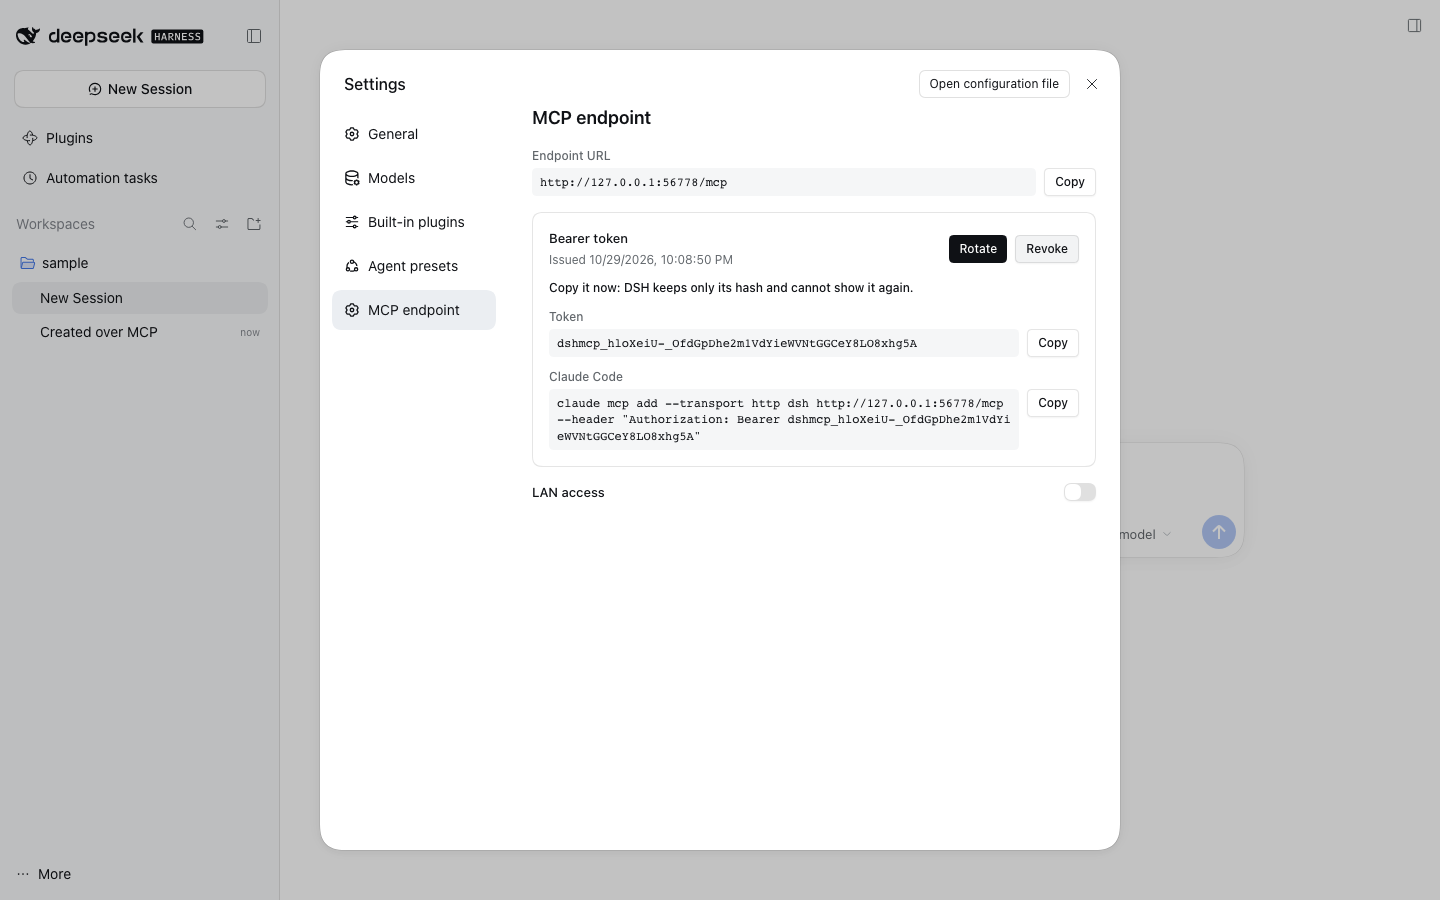
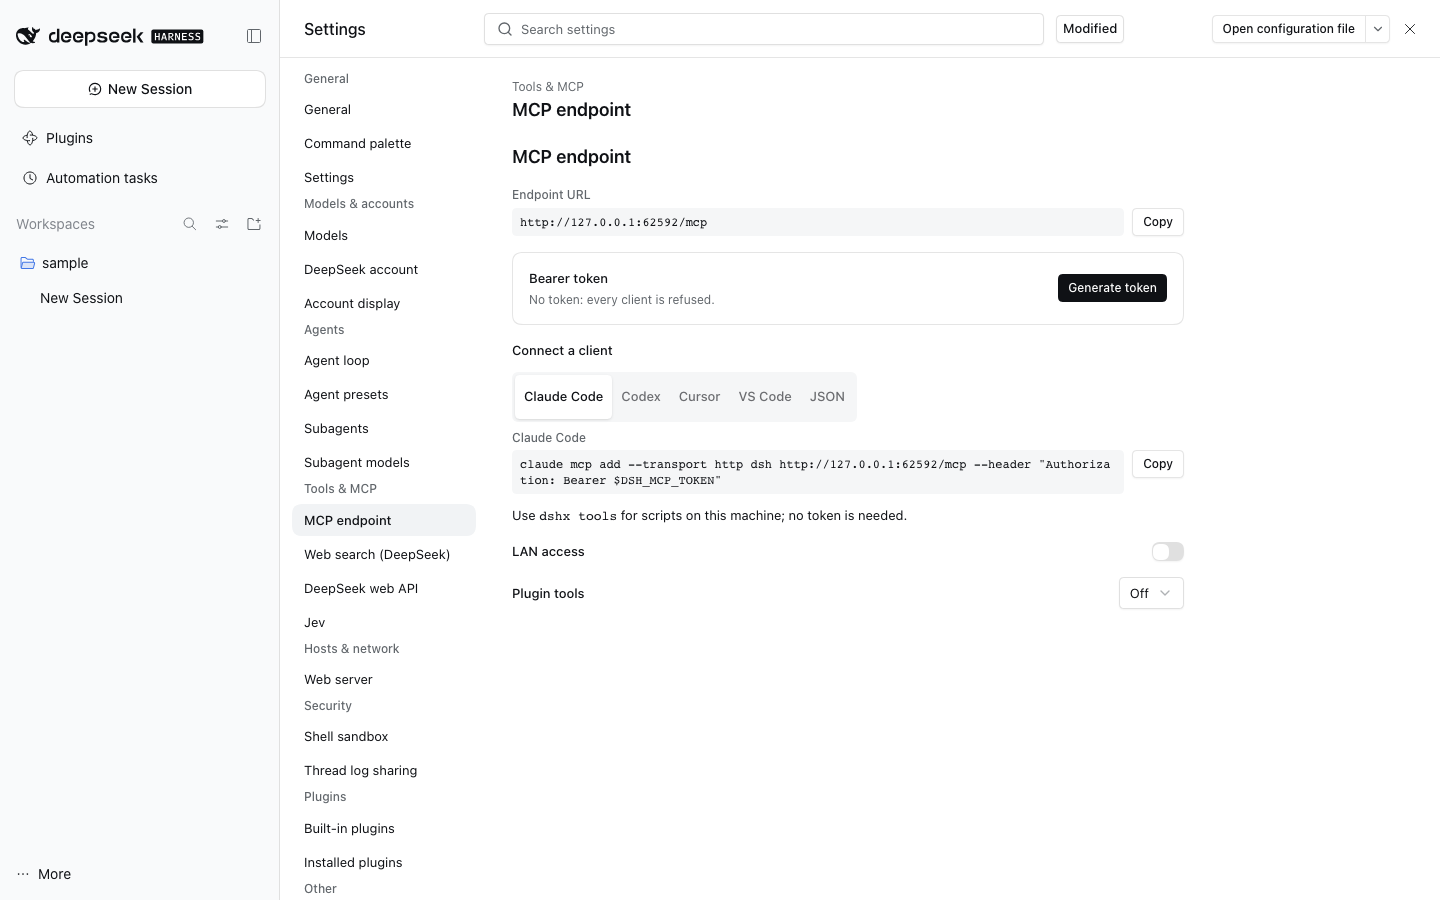
docs(mcp-endpoint): refresh the Settings evidence for the client-connect block
The README still showed the old Settings dialog with a live token and no
Connect a client block. Re-capture Settings > MCP endpoint at desktop width
and at 390 px from a scratch DSH, with no token on screen.

The 390 px reach steps had drifted: they clicked a 'More' button the current
responsive sidebar no longer renders, so the phone-width path could not be
walked or captured. They now open Settings through the Account menu and its
Sections combobox, which is the path a narrow viewport actually offers.

Add the palette command check the plan owed: a journey opens the command
palette from the keyboard, runs 'MCP endpoint: connect a client' with Enter
and tabs to the section's Generate token control. Repair the outside-agent
journey while there: a thread created over MCP lands under the collapsed
Ungrouped group, and its row is a treeitem, not the title text the journey
clicked.

diff --git a/tooling/dshx/e2e/support/plugin-journeys/mcp-endpoint.steps.ts b/tooling/dshx/e2e/support/plugin-journeys/mcp-endpoint.steps.ts
@@ -126,10 +126,44 @@ Then('the MCP client lists the thread and reads the answer to its prompt', async
 
 Then('the thread opens on that answer in the app', async ({ page }: { page: Page }) => {
   await recordAssertion(page, 'mcp-endpoint-thread-visible-in-app', async () => {
-    const row = page.getByText(TITLE, { exact: true }).first()
+    const ungrouped = page.getByRole('treeitem', { name: 'Ungrouped', exact: true })
+    if ((await ungrouped.isVisible().catch(() => false)) && (await ungrouped.getAttribute('aria-expanded')) !== 'true') await ungrouped.click()
+    const row = page.getByRole('treeitem', { name: new RegExp(TITLE, 'u') }).first()
     await expect(row).toBeVisible({ timeout: 30_000 })
     await row.click()
     await expect(page.getByText(ANSWER, { exact: true })).toBeVisible({ timeout: 30_000 })
+  })
+  await finishJourneyAssertions(page)
+})
+
+const paletteDialog = (page: Page) => page.getByRole('dialog', { name: 'Command palette' })
+
+When('the MCP endpoint palette command is run from the keyboard', async ({ page }: { page: Page }) => {
+  await page.keyboard.press('Meta+Shift+P')
+  await expect(paletteDialog(page)).toBeVisible()
+  await paletteDialog(page).getByRole('combobox').fill('MCP endpoint: connect a client')
+  await expect(
+    paletteDialog(page)
+      .getByRole('option', { name: /MCP endpoint: connect a client/u })
+      .first(),
+  ).toBeVisible()
+  await page.keyboard.press('Enter')
+  await expect(paletteDialog(page)).toBeHidden()
+})
+
+Then('the MCP endpoint settings show client setup with no token and generate token is keyboard reachable', async ({ page }: { page: Page }) => {
+  const settings = settingsPage(page)
+  await recordAssertion(page, 'mcp-endpoint-palette-opens-client-setup', async () => {
+    await expect(settings.getByRole('tab', { name: 'Claude Code' })).toBeVisible()
+    await expect(settings.getByText('dshmcp_', { exact: false })).toHaveCount(0)
+  })
+  await recordAssertion(page, 'mcp-endpoint-settings-generate-token-keyboard-reachable', async () => {
+    for (let press = 0; press < 80; press++) {
+      await page.keyboard.press('Tab')
+      const focused = await page.evaluate(() => document.activeElement?.textContent?.trim() ?? '')
+      if (focused === 'Generate token') return
+    }
+    throw new Error('Tab never reached the Generate token control inside Settings › MCP endpoint.')
   })
   await finishJourneyAssertions(page)
 })

diff --git a/plugins/@dshfiles/mcp-endpoint/README.md b/plugins/@dshfiles/mcp-endpoint/README.md
@@ -1,6 +1,8 @@
 # @dshfiles/mcp-endpoint
 
-![Settings › MCP endpoint after generating a token](docs/screenshots/mcp-endpoint-settings.png)
+![Settings › MCP endpoint: issue a bearer token and connect a client](docs/screenshots/mcp-endpoint-settings.png)
+
+![The same section on a 390 px wide screen](docs/screenshots/mcp-endpoint-settings-narrow.png)
 
 An [MCP](https://modelcontextprotocol.io) server on the DSH Web server, so an agent in a terminal (Claude Code, Codex,
 any MCP client) can drive DSH threads: list them, read them, start one, message it, wait for its turn and stop it.
